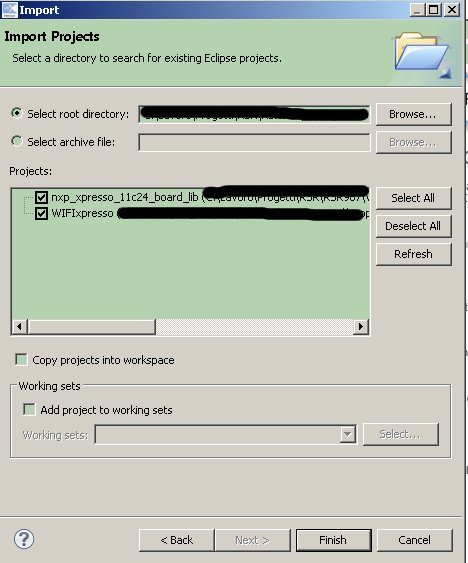
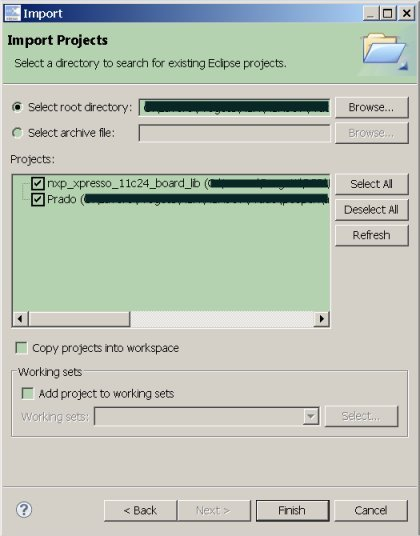
changed name WIFIxpresso to Prado

Changed region(s): [[0.0, 0.0, 1.0, 1.0]]

diff --git a/source/quick.rst b/source/quick.rst
@@ -11,7 +11,7 @@ To run the demo application, you need the following hardware:
 
 * LPC1115 LPCXpresso Board
 
-* Architech WIFIxpresso daughterboard
+* Architech Prado daughterboard
 
 * 802.11b/g-compliant Wi-Fi access point **with internet access**
 
@@ -26,7 +26,7 @@ To run the demo application, you need the following hardware:
 |
 | Optionally (for :ref:`passthrough`)
 
-* A **UART interface (3,3V level only)** to connect WIFIxpresso to your pc. **This interface is not provided**.
+* A **UART interface (3,3V level only)** to connect Prado to your pc. **This interface is not provided**.
 
 .. index:: Software Requirements
 
@@ -74,18 +74,18 @@ Perform the following steps to set up the hardware and prepare it for configurat
  J6 from PIN1 (GND) to PIN20 (AD5)
  J6 from PIN28 (3V3) to PIN47 (P2.5)
 
-3. Mount the LPC1115 LPCXpresso Board connectors on WIFIxpresso evaluation board. LPCXpresso **J6 PIN1** must be connect in WIFIxpresso **U1 PIN1** ... **J6 PIN20** to **U1 PIN20** ... **J6 PIN47** to **U1 PIN40** ... **J6 PIN28** to **U1 PIN21**.
+3. Mount the LPC1115 LPCXpresso Board connectors on Prado evaluation board. LPCXpresso **J6 PIN1** must be connect in Prado **U1 PIN1** ... **J6 PIN20** to **U1 PIN20** ... **J6 PIN47** to **U1 PIN40** ... **J6 PIN28** to **U1 PIN21**.
 
 .. image:: _static/IMG13.jpg
 .. image:: _static/IMG1.JPG
 
-4. remove the two jumpers **J1** and **J2** from **WIFIxpresso**
+4. remove the two jumpers **J1** and **J2** from **Prado**
 
 5. Connect PC to boards with mini-USB cables.
 
 .. image:: _static/IMG4.JPG
 
-6. Optionally connect the **UART interface** (**not provided**) from the connector WIFIxpresso **CN1** (**UART 3,3V level only**) to the PC if you want see the communication between the LPC1115 and the WiFi module. The UART configuration is **Baud: 9600, Data: 8bit, Parity: None, 1bit stop, Flow: None**
+6. Optionally connect the **UART interface** (**not provided**) from the connector Prado **CN1** (**UART 3,3V level only**) to the PC if you want see the communication between the LPC1115 and the WiFi module. The UART configuration is **Baud: 9600, Data: 8bit, Parity: None, 1bit stop, Flow: None**
 
 ::
 
@@ -120,7 +120,7 @@ Microchip Demo
 2. Importing the demo into your **LPCXpresso workspace**
 To use the projects in LPCXpresso, they **must first be imported into LPCXpresso**. To import the projects, go to **File → Import → General → Existing Projects** and press **Next**.
 On the import dialog window in the **Select root directory** box, browse to the platform directory **lpcopen/applications/lpc11xx/xpresso_projects/nxp_xpresso_11c24/**.
-Select **nxp_xpresso_11c24_board_lib** and **WIFIxpresso**.
+Select **nxp_xpresso_11c24_board_lib** and **Prado**.
 Make sure the **Copy projects to workspace** option is **disabled**. Then select **Finish** to start the import.
 
 .. image:: _static/IMG7.JPG
@@ -137,7 +137,7 @@ The imported project should appear in the **Project Browser** window.
 Run demo first time
 -------------------
 
-1. Choose WIFIxpresso in project explorer and launch debugging by pressing the icon showed below:
+1. Choose Prado in project explorer and launch debugging by pressing the icon showed below:
 
 .. image:: _static/IMG9.JPG
 

diff --git a/source/index.rst b/source/index.rst
@@ -1,8 +1,8 @@
-.. WIFIxpresso Board by Silica Architech documentation master file, created by
+.. Prado Board by Silica Architech documentation master file, created by
    sphinx-quickstart on Wed Apr 10 11:13:41 2013.
    You can adapt to your liking the file, being careful that the directive contains the root 'toctree'
 
-Welcome to WIFIxpresso Board by Silica Architech's documentation!
+Welcome to Prado Board by Silica Architech's documentation!
 =================================================================
 
 :Version: 1.0.0
@@ -22,12 +22,12 @@ Welcome to WIFIxpresso Board by Silica Architech's documentation!
 .. image:: _static/IMG2.JPG
 
 | 
-| The daughterboard Architech WIFIxpresso of Silica helps to access the `WiFly RN-131C <http://www.microchip.com/wwwproducts/Devices.aspx?dDocName=en558369>`_ module (version **4.00**) of **Microchip**.
+| The daughterboard Architech Prado of Silica helps to access the `WiFly RN-131C <http://www.microchip.com/wwwproducts/Devices.aspx?dDocName=en558369>`_ module (version **4.00**) of **Microchip**.
 | It was designed to be connected to the `LPC1115 LPCXpresso board <http://www.embeddedartists.com/products/lpcxpresso/lpc1115_xpr.php>`_.
 | The project provides a demo developed with the **LPCXpresso IDE** and through the microcontroller **LPC1115** configures the **RN-131C** module to operate in different modes.
 | 
 
-**Architech WIFIxpresso Features:**
+**Architech Prado Features:**
 
 * Interfaceable with:
 
@@ -55,7 +55,7 @@ Welcome to WIFIxpresso Board by Silica Architech's documentation!
 	* http://www.nxp.com/techzones/microcontrollers-techzone/tools-ecosystem/lpcxpresso.html
 	* http://www.nxp.com/products/microcontrollers/cortex_m0_m0/LPC1115FBD48.html
 
-* Connected to the WIFIxpresso daughterboard:
+* Connected to the Prado daughterboard:
 
 .. image:: _static/IMG0.PNG
 

diff --git a/source/passthrough.rst b/source/passthrough.rst
@@ -5,7 +5,7 @@
 Pass-Through Mode
 =================
 
-.. warning:: For using this mode you need a **UART interface (3,3V level only)** to connect WIFIxpresso to your pc. **This interface is not provided**.
+.. warning:: For using this mode you need a **UART interface (3,3V level only)** to connect Prado to your pc. **This interface is not provided**.
 
 The demo provided can operate in **pass-through mode**. 
 Enable this mode to be able to send and receive commands to the console manually through terminal WiFly module.
@@ -24,7 +24,7 @@ In order to enable this mode follow the following steps:
 
 3. The UART configuration is **Baud: 9600, Data: 8bit, Parity: None, 1bit stop, Flow: None**
 
-4. Connect **WIFIxpresso** to the **PC**
+4. Connect **Prado** to the **PC**
 
 5. When the demo starts, **LED1** remain always turned on.
 

diff --git a/source/factoryreset.rst b/source/factoryreset.rst
@@ -8,7 +8,7 @@ Factory Reset
 by terminal
 -----------
 
-.. warning:: For using this mode you need a **UART interface (3,3V level only)** to connect WIFIxpresso to your pc. **This interface is not provided**.
+.. warning:: For using this mode you need a **UART interface (3,3V level only)** to connect Prado to your pc. **This interface is not provided**.
 
 It can be possible reset to factory defaults module **RN-131C** through the :ref:`passthrough` with the following commands:
 
